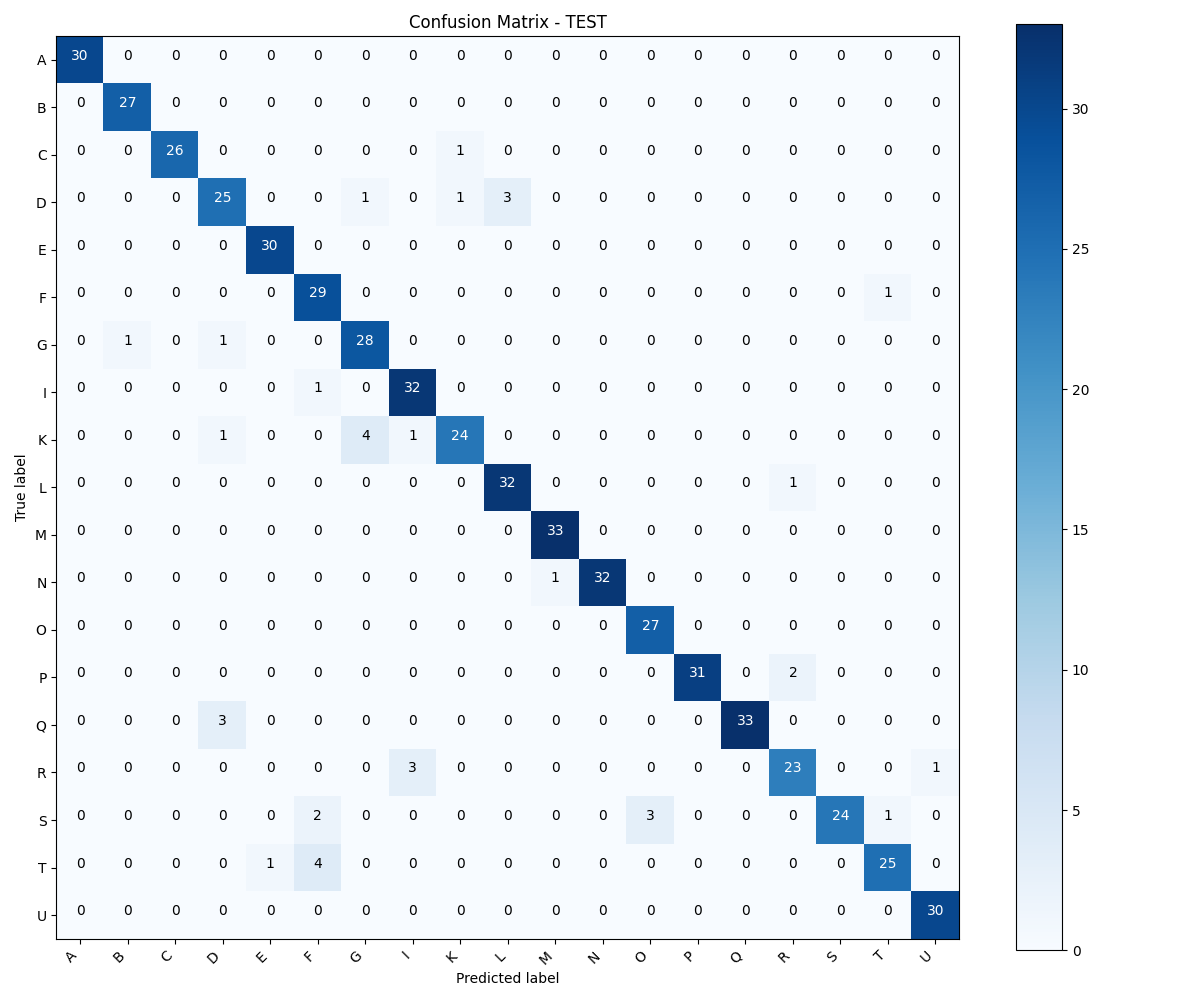
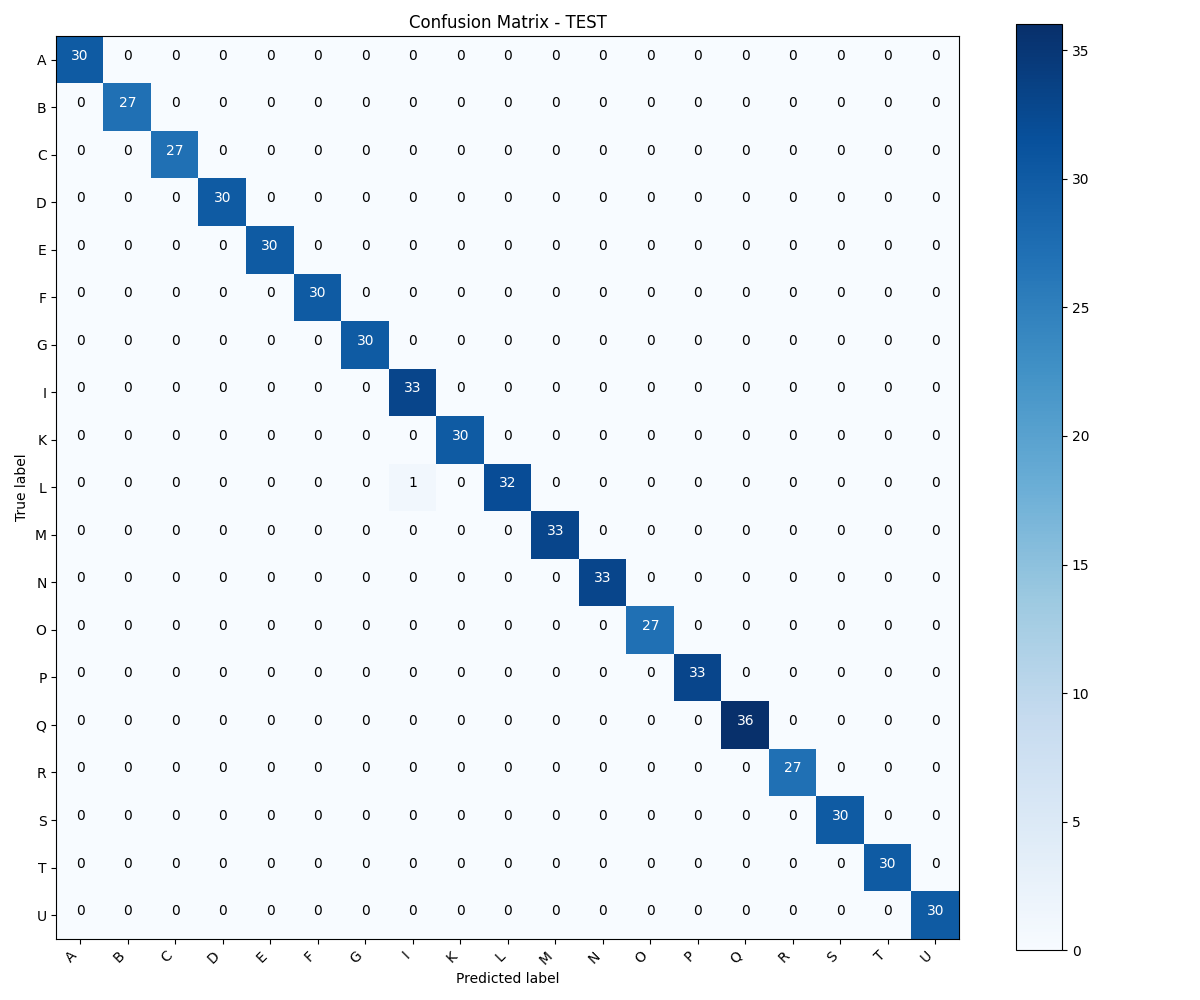
DinoV2Timm_99.99%

Changed region(s): [[0.2775, 0.403, 0.4933, 0.558], [0.6783, 0.775, 0.74, 0.868], [0.2467, 0.837, 0.3083, 0.899]]

diff --git a/src/challenge_code/train.py b/src/challenge_code/train.py
@@ -13,6 +13,7 @@ from .dataset import ChallengeImageFolderDataset
 from .model import ConvolutionalNetwork
 from .model import VGG19Timm
 from .model import DinoV2Timm
+from .model import VGG19BN
 
 
 def get_device(force: str = "auto") -> torch.device:
@@ -71,11 +72,11 @@ def train_model():
 
     num_classes = 19
     epochs = 20
-    lr = 1e-5
+    lr = 5e-6
     batch_size = 32
 
-    # === EARLY STOPPING CONFIG (NUEVO) ===
-    patience = 3          # cuántas épocas esperar sin mejora
+    # === EARLY STOPPING CONFIG ===
+    patience = 4          # cuántas épocas esperar sin mejora
     min_delta = 0.0       # mejora mínima requerida en val_loss para resetear paciencia
     # ====================================
 
@@ -93,7 +94,7 @@ def train_model():
         raise FileNotFoundError(f"No existe: {val_dir}")
 
     # Transforms
-    imgsize = 64
+    imgsize = 224
     transform = transforms.Compose(
         [
             transforms.Resize((imgsize, imgsize)),
@@ -151,8 +152,9 @@ def train_model():
 
     # === Model ===
     # model = ConvolutionalNetwork(num_classes).to(device)
-    model = VGG19Timm(num_classes=19, pretrained=True).to(device)
-    #model = DinoV2Timm(num_classes=19, pretrained=False).to(device)
+    #model = VGG19Timm(num_classes=19, pretrained=True).to(device)
+    model = DinoV2Timm(num_classes=19, pretrained=True).to(device)
+    #model = VGG19BN(num_classes=19, pretrained=True).to(device)
     criterion = nn.CrossEntropyLoss()
     optimizer = optim.AdamW(model.parameters(), lr=lr)
 

diff --git a/src/challenge_code/evaluate.py b/src/challenge_code/evaluate.py
@@ -14,6 +14,8 @@ from sklearn.metrics import confusion_matrix, f1_score, accuracy_score
 from .dataset import ChallengeImageFolderDataset
 from .model import ConvolutionalNetwork
 from .model import VGG19Timm
+from .model import DinoV2Timm
+from .model import VGG19BN
 
 
 def get_device(force: str = "auto") -> torch.device:
@@ -170,10 +172,11 @@ if __name__ == "__main__":
     batch_size = 32
 
     # carpeta donde está best_model.pth
-    run_dir = Path(__file__).parent / "outs" / "run_005"
+    run_dir = Path(__file__).parent / "outs" / "run_008"
     best_model = run_dir / "best_model.pth"
 
     out_dir = Path(__file__).parent / "outs" / "Prueba1"
+    #run_dir 
     out_dir.mkdir(parents=True, exist_ok=True)
 
     device = get_device("auto")
@@ -181,7 +184,7 @@ if __name__ == "__main__":
     print("Test dir:", test_dir)
     print("Model:", best_model)
 
-    imgsize = 64
+    imgsize = 224
     # Transform  
     transform = transforms.Compose(
         [
@@ -210,7 +213,9 @@ if __name__ == "__main__":
     )
 
     # === Modelo ===
-    model = VGG19Timm(num_classes=num_classes, pretrained=True).to(device)
+    #model = VGG19BN(num_classes=19, pretrained=True).to(device)
+    #model = VGG19Timm(num_classes=num_classes, pretrained=True).to(device)
+    model = DinoV2Timm(num_classes=num_classes, pretrained=True).to(device)
     model.load_state_dict(torch.load(best_model, map_location=device))
     model.eval()
 

diff --git a/src/challenge_code/model.py b/src/challenge_code/model.py
@@ -56,12 +56,12 @@ class VGG19Timm(nn.Module):
     def forward(self, x):
         return self.backbone(x)
 class DinoV2Timm(nn.Module):
-
     def __init__(
         self,
         num_classes: int,
-        pretrained: bool = False,
-        model_name: str = "vit_small_patch14_reg4_dinov2",
+        pretrained: bool = True,
+        model_name: str = "vit_small_patch14_dinov2.lvd142m",
+        img_size: int = 224,
         drop_rate: float = 0.0,
         drop_path_rate: float = 0.0,
     ):
@@ -70,8 +70,21 @@ class DinoV2Timm(nn.Module):
             model_name,
             pretrained=pretrained,
             num_classes=num_classes,
+            img_size=img_size,             
+            dynamic_img_size=True,         
             drop_rate=drop_rate,
             drop_path_rate=drop_path_rate,
+        )
+
+    def forward(self, x):
+        return self.backbone(x)
+class VGG19BN(nn.Module):
+    def __init__(self, num_classes: int, pretrained: bool = True):
+        super().__init__()
+        self.backbone = timm.create_model(
+            "vgg19_bn",
+            pretrained=pretrained,
+            num_classes=num_classes,
         )
 
     def forward(self, x):

diff --git a/src/challenge_code/new_dataset.py b/src/challenge_code/new_dataset.py
@@ -6,7 +6,7 @@ from PIL import Image
 from torchvision import transforms
 
 
-def build_augmentation_pipeline(imgsize: int = 64):
+def build_augmentation_pipeline(imgsize: int = 224):
     # Puedes ajustar estos valores si quieres más/menos agresivo
     return transforms.Compose(
         [
@@ -35,7 +35,7 @@ def augment_folder(
     src_root: str,
     dst_root: str,
     num_aug_per_image: int = 3,
-    imgsize: int = 64,
+    imgsize: int = 224,
     seed: int = 42,
     copy_original: bool = True,
     out_ext: str = ".jpg",
@@ -125,7 +125,7 @@ if __name__ == "__main__":
         src_root=SRC_TEST,
         dst_root=DST_TEST3,
         num_aug_per_image=3,   # genera 3 variantes por imagen (más el original si copy_original=True)
-        imgsize=64,
+        imgsize=224,
         seed=42,
         copy_original=False,    # si no quieres copiar el original, pon False
         out_ext=".jpg",
